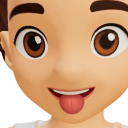
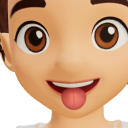
3D-forsøg: munde lige store, jævn underlæbe på Grin
Grin, Tunge, Åh, Kys og Trist har nu omtrent samme størrelse, og lyset på underlæben er blødt i stedet for en streg.

diff --git a/3d-forsoeg/index.html b/3d-forsoeg/index.html
@@ -478,10 +478,11 @@ function drawEyes(o) {
 // (round: how bluntly the lips end at the corners - the smaller, the rounder)
 // (Neutral was dropped by the user, 2026-11-02)
 const MOUTHS = [['mund-smil', 'Smil'],
-  ['mund-grin', 'Grin', { mid: [-.02, .1], hw: .38, open: [.025, .22], lip: [.024, .03], teeth: .072, tongue: .06, crease: true }],
-  ['mund-tunge', 'Tunge', { mid: [0, .05], hw: .28, open: [.02, .1], lip: [.026, .032], teeth: .04, out: true, crease: true }],
-  ['mund-o', 'Åh', { o: true }], ['mund-kys', 'Kys', { kiss: true }],
-  ['mund-trist', 'Trist', { mid: [.035, -.06], hw: .25, open: [0, 0], lip: [.042, .052], round: .3 }]];
+// (all about as big as each other - the user found Grin much the biggest)
+  ['mund-grin', 'Grin', { mid: [-.02, .09], hw: .32, open: [.025, .19], lip: [.024, .03], teeth: .065, tongue: .055, crease: true }],
+  ['mund-tunge', 'Tunge', { mid: [0, .06], hw: .32, open: [.022, .13], lip: [.026, .032], teeth: .05, out: true, crease: true }],
+  ['mund-o', 'Åh', { o: 1.2 }], ['mund-kys', 'Kys', { kiss: 1.25 }],
+  ['mund-trist', 'Trist', { mid: [.035, -.07], hw: .3, open: [0, 0], lip: [.044, .056], round: .3 }]];
 let mouthNow = 'mund-smil';
 function setMouth(name) { mouthNow = name; redrawBody(); renderStyles(); }
 function setupMouth(place) {
@@ -536,7 +537,8 @@ function drawMouth(o) {
   // up and catches the light, darker where it turns under)
   // (lower: 0 the upper lip's shading, 1 the lower's - Åh's round lip passes from one to the other, without a line)
   const lip = (i, k, dIn, dOut, t, lower, u) => { const a = cov(dIn) * cl(dOut / .016 + .5); if (a <= 0) return; t = cl(t);
-    const lo = .86 + .2 * Math.sin(Math.PI * Math.min(1, t * 1.3)) + .26 * Math.exp(-(((t - .35) / .15) ** 2)) * Math.exp(-((u / .45) ** 2)) - .16 * cl((t - .7) / .3),
+    // (its light broad and soft - narrow, it ran along the lip as a line)
+    const lo = .88 + .16 * Math.sin(Math.PI * Math.min(1, t * 1.2)) + .14 * Math.exp(-(((t - .4) / .3) ** 2)) * Math.exp(-((u / .5) ** 2)) - .12 * cl((t - .6) / .4) ** 2,
       hi = .74 + .2 * t + .1 * Math.sin(Math.PI * t), l = +lower;
     put(i, lipC, k * (lo * l + hi * (1 - l)), a); };
   // (a soft shade on the skin just under the lower lip, where it turns in)
@@ -574,18 +576,19 @@ function drawMouth(o) {
       if (opts.crease) { const cx2 = opts.hw + .035, cy2 = my + opts.mid[0] + opts.mid[1] - .01, dc = Math.hypot(Math.abs(X) - cx2 + .04, Y - cy2), ang = Math.atan2(Y - cy2, Math.abs(X) - cx2 + .04);
         put(i, skin, k * .8, .6 * cl(1 - Math.abs(dc - .045) / .006) * cl((ang + .9) / .3) * cl((.9 - ang) / .3) * cl((Math.abs(X) - cx2 + .02) / .02)); } }
     // (Åh: a round open mouth, its lips all round - fuller below - the inside dark with the tongue's tip at its foot)
-    if (opts.o) { const cy = my - .03, ei = Math.hypot(X / .1, (Y - cy) / .09), eo = Math.hypot(X / .148, (Y - cy + .008) / (Y > cy ? .13 : .145));
+    // (Åh and Kys drawn at their size times opts.o / opts.kiss, about their middle)
+    if (opts.o) { const cy = my - .03, sc = opts.o, x = X / sc, y = cy + (Y - cy) / sc, ei = Math.hypot(x / .1, (y - cy) / .09), eo = Math.hypot(x / .148, (y - cy + .008) / (y > cy ? .13 : .145));
       // (how far across the lip: 0 at the opening, 1 at its outer edge - ei / eo is the outer edge's size against the inner's)
-      under(i, k, (eo - 1) * .12, X / .12);
-      lip(i, k, (ei - 1) * .08, (1 - eo) * .1, (ei - 1) / ((ei / eo - 1) || 1), cl((cy + .03 - Y) / .06), X / .1);
-      put(i, insideC, .6 + .45 * cl((cy + .09 - Y) / .18), cov((1 - ei) * .08));
-      const te = Math.hypot(X / .08, (Y - cy + .095) / .05); put(i, tongueC, .75 + .3 * (1 - te), cov((1 - ei) * .08) * cov((1 - te) * .05));
-      put(i, seamC, 1, .4 * cov(.004 - Math.abs((1 - ei) * .08))); }
+      under(i, k, (eo - 1) * .12 * sc, x / .12);
+      lip(i, k, (ei - 1) * .08 * sc, (1 - eo) * .1 * sc, (ei - 1) / ((ei / eo - 1) || 1), cl((cy + .03 - y) / .06), x / .1);
+      put(i, insideC, .6 + .45 * cl((cy + .09 - y) / .18), cov((1 - ei) * .08 * sc));
+      const te = Math.hypot(x / .08, (y - cy + .095) / .05); put(i, tongueC, .75 + .3 * (1 - te), cov((1 - ei) * .08 * sc) * cov((1 - te) * .05 * sc));
+      put(i, seamC, 1, .4 * cov(.004 - Math.abs((1 - ei) * .08 * sc))); }
     // (Kys: pursed lips pushed forward - narrow, nearly round, the bow in the upper one, a short seam in the middle, lit
     // most where they stick out and with little creases running out from the middle, as lips gathered for a kiss)
-    if (opts.kiss) { const sy = my - .025, ux = X / .11, s = Math.sqrt(Math.max(0, 1 - ux * ux)), up = sy + .07 * Math.pow(s, .4) * (1 - .25 * Math.exp(-((X / .03) ** 2))), lo = sy - .082 * Math.pow(s, .45);
+    if (opts.kiss) { const sc = opts.kiss, sy = my - .025, ux = X / (.11 * sc), s = Math.sqrt(Math.max(0, 1 - ux * ux)), up = sy + .07 * sc * Math.pow(s, .4) * (1 - .25 * Math.exp(-((X / (.03 * sc)) ** 2))), lo = sy - .082 * sc * Math.pow(s, .45);
       if (Math.abs(ux) < 1.05) { under(i, k, lo - Y, ux); lip(i, k, Y - sy, up - Y, (Y - sy) / (up - sy || 1), false, ux); lip(i, k, sy - Y, Y - lo, (sy - Y) / (sy - lo || 1), true, ux * 1.6);
-        const inLip = cov(Math.min(Y - lo, up - Y)), r = Math.hypot(X, (Y - sy) * 1.2), ang = Math.atan2(Y - sy, X);
+        const inLip = cov(Math.min(Y - lo, up - Y)), r = Math.hypot(X, (Y - sy) * 1.2) / sc, ang = Math.atan2(Y - sy, X);
         put(i, { r: 1, g: .92, b: .92 }, 1, .18 * inLip * Math.exp(-((r / .04) ** 2)));
         put(i, kissC, k, .35 * inLip); put(i, lipC, k * .68, .75 * inLip * cl((r - .025) / .015) * cl(1 - Math.abs(Math.sin(ang * 5)) / .18) * cl(Math.min(up - Y, Y - lo) / .015));
         put(i, seamC, 1, .85 * cov(.005 * s - Math.abs(Y - sy)) * cl((.45 - Math.abs(ux)) / .15)); } } } }
